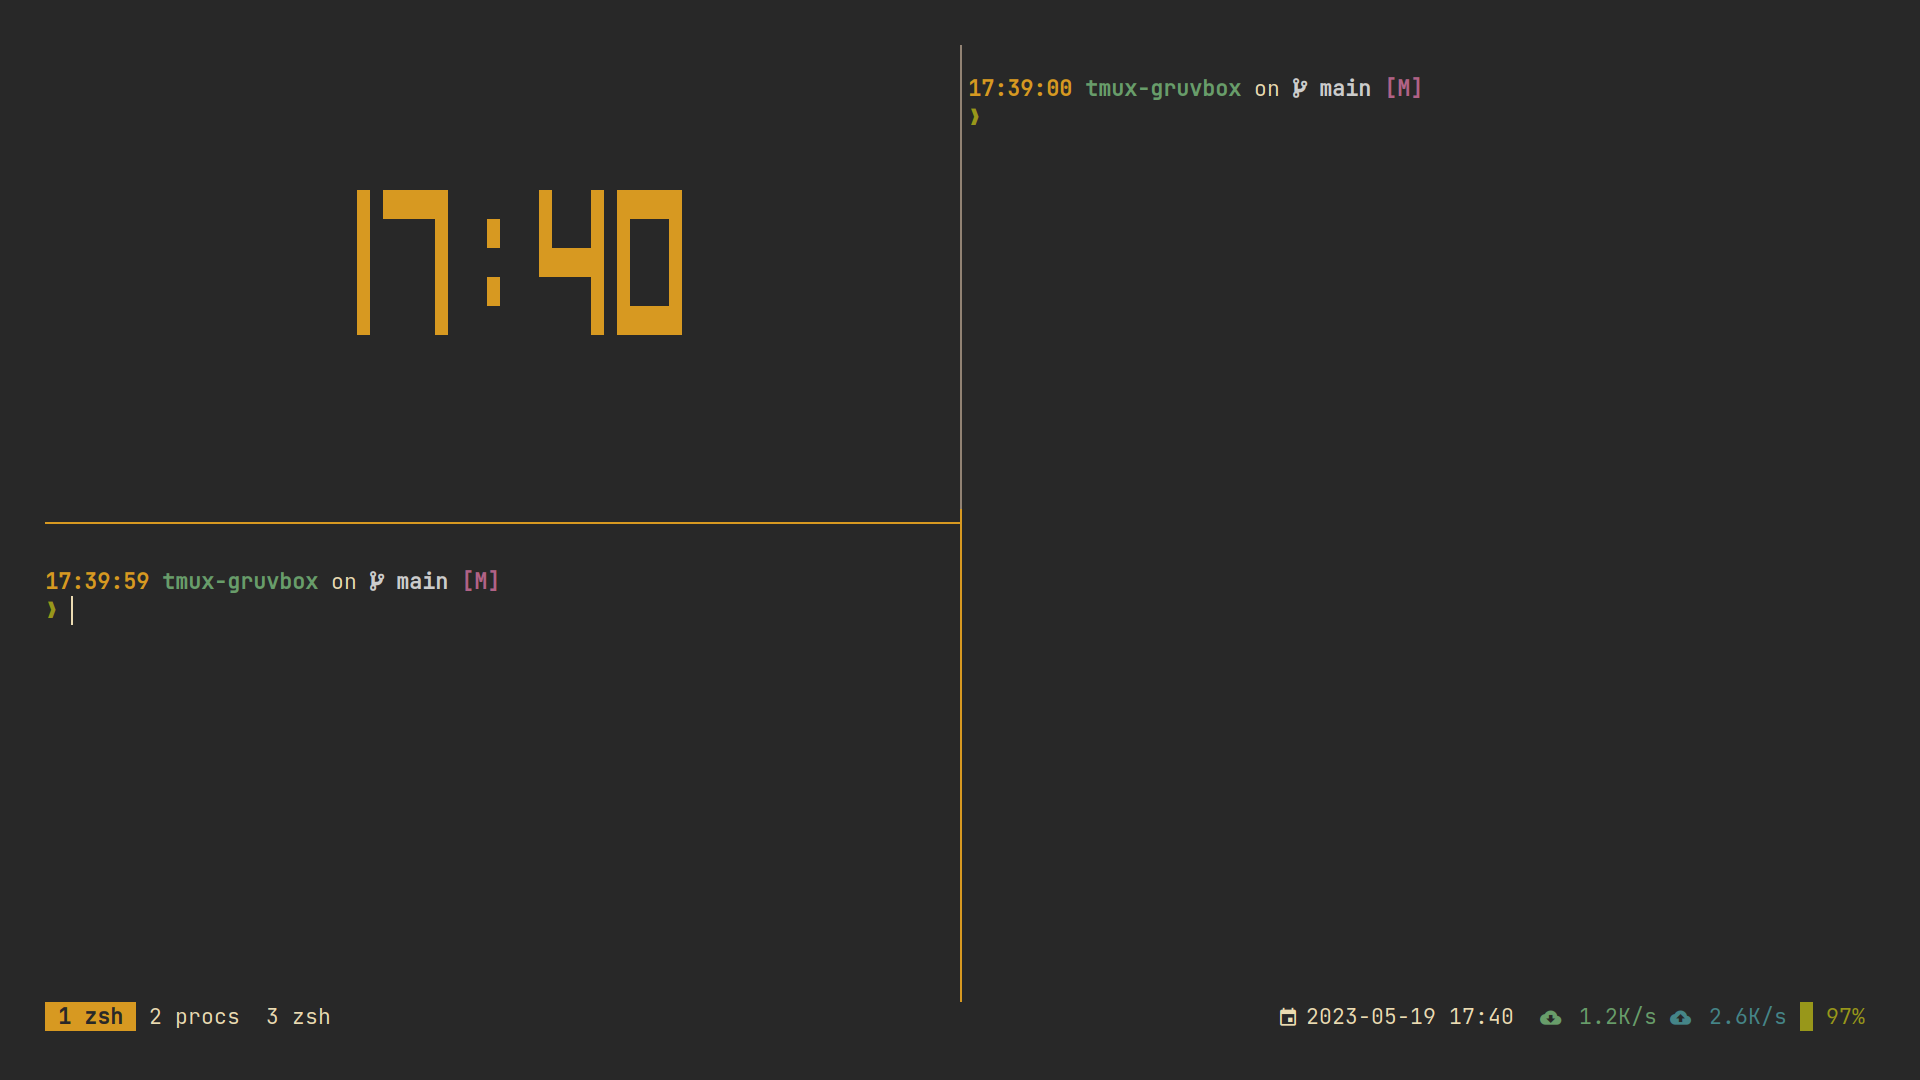
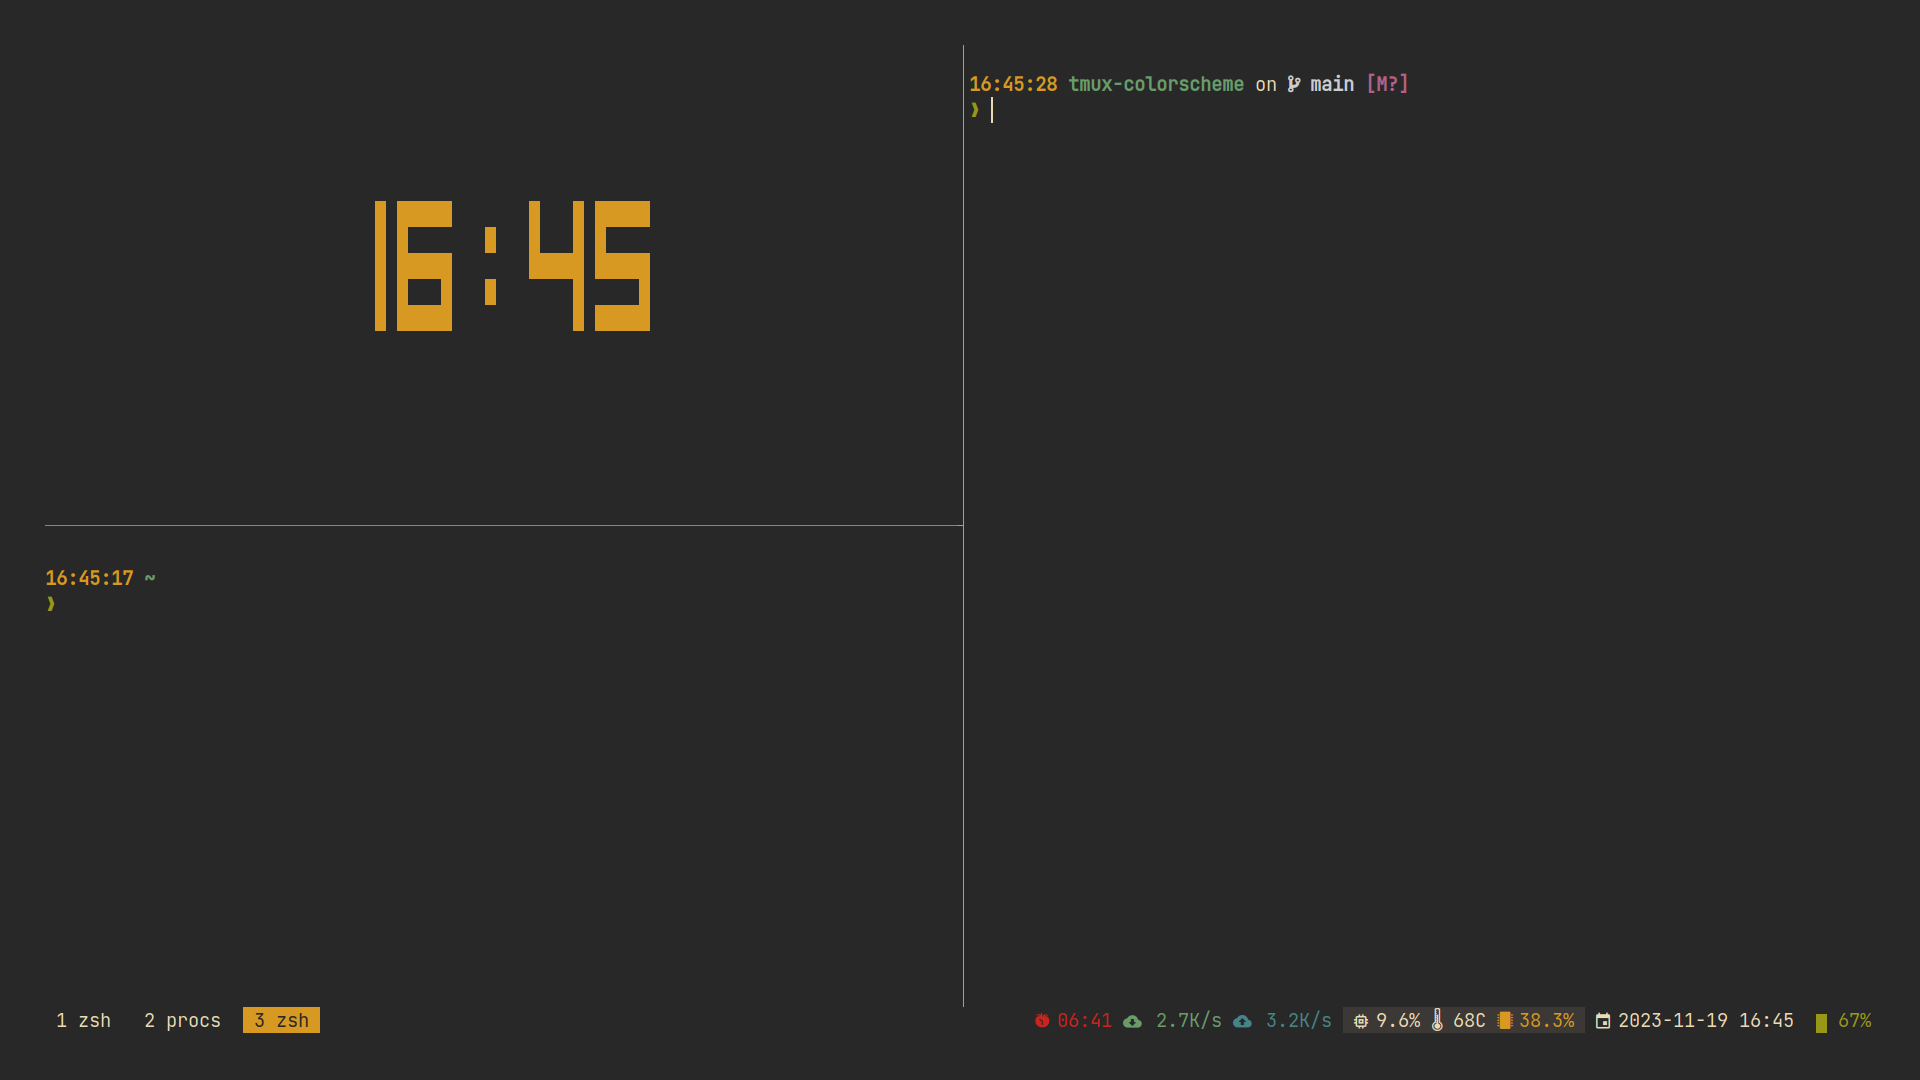
feat: add tmux-cpu support + update screenshots

diff --git a/README.md b/README.md
@@ -13,7 +13,7 @@ Add plugin to the list of TPM plugins in `.tmux.conf` and select desired theme
 
 ```bash
 set -g @plugin 'l-lin/tmux-colorscheme'
-set -g @tmux-colorscheme 'kanagawa' # or 'gruvbox-dark' or 'gruvbox-light'
+set -g @tmux-colorscheme 'kanagawa' # or 'gruvbox-dark' or 'gruvbox-light' or 'github-light'
 ```
 
 Hit `prefix + I` to fetch the plugin and source it. Your Tmux should be updated with the theme at this point.
@@ -79,5 +79,13 @@ set -g @tmux-colorscheme-show-battery true
 
 ```tmux
 set -g @tmux-colorscheme-show-pomodoro true
+```
+
+### [tmux-cpu](https://github.com/tmux-plugins/tmux-cpu)
+
+```
+set -g @tmux-colorscheme-show-cpu true
+set -g @tmux-colorscheme-show-cpu-temp true
+set -g @tmux-colorscheme-show-ram true
 ```
 
